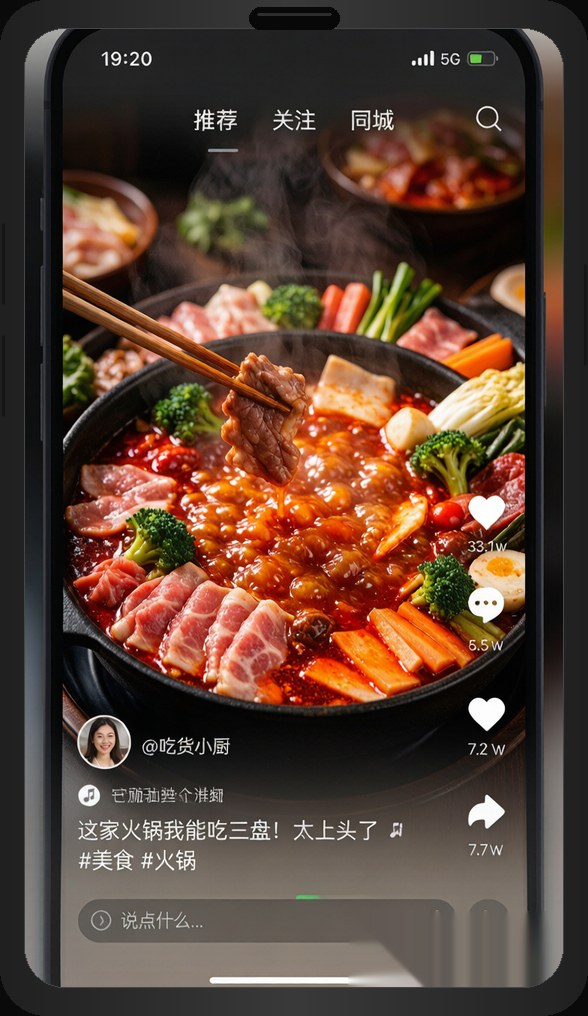
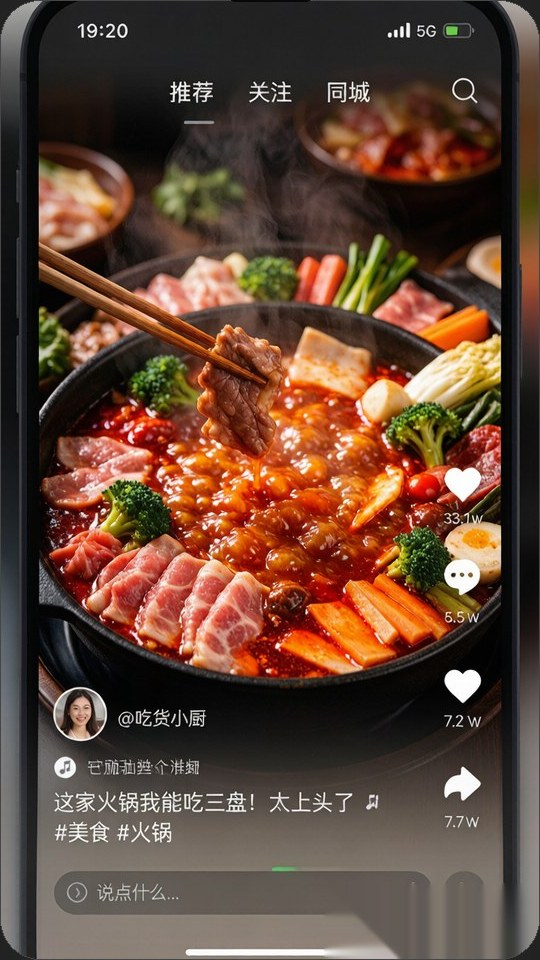
fix: 去除案例图多余的外层手机边框，直接展示9:16抖音手机截图

diff --git a/styles.css b/styles.css
@@ -590,7 +590,7 @@ mark { background: transparent; color: var(--green-text); font-weight: 900; }
 .case-item img {
   width: 100%;
   display: block;
-  border-radius: 46px;
+  border-radius: 18px;
   border: 1px solid rgba(255,255,255,0.08);
   background: #000;
   box-shadow: 0 12px 30px rgba(0,0,0,0.45);
